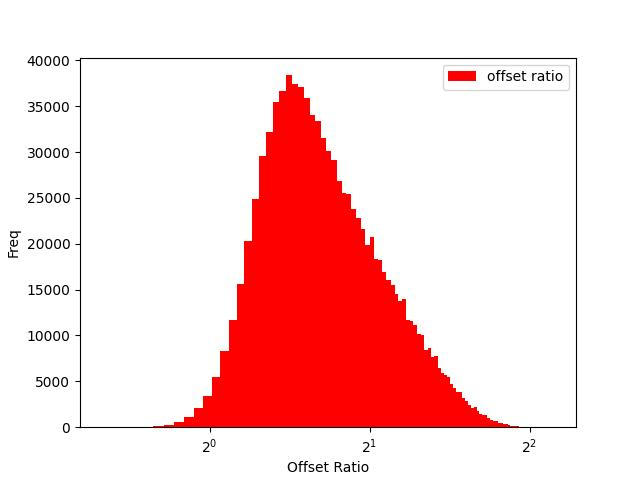
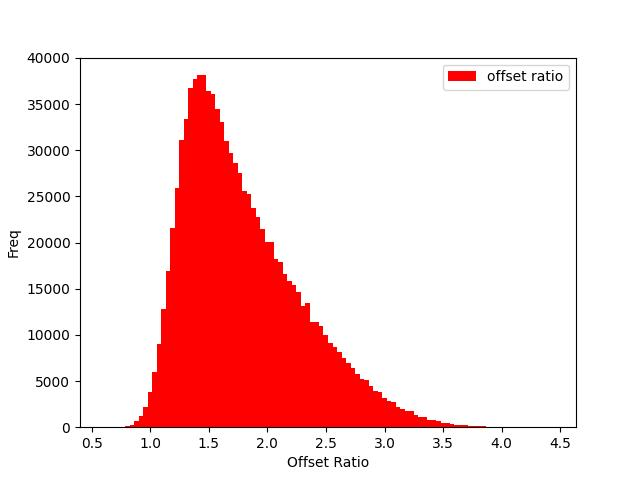
final commit

diff --git a/assignment1/20240454.py b/assignment1/20240454.py
@@ -1,13 +1,10 @@
 import numpy as np
 import time
 import matplotlib.pyplot as plt
-from tqdm import tqdm
 
 np.random.seed(20240454)
 
-
 #==============1-1==============
-
 def prefixAverages1(X, n):
     A = np.zeros(n)
     for i in range(n):
@@ -38,20 +35,20 @@ for i in range(1000):
     prefixAverages2(X, n)
     optimized[i] = time.perf_counter() - start
 
-plt.hist(slow / optimized, color='red', label='slow / optimized')
+plt.hist(slow / optimized, color='red', label='slow / optimized', bins=100)
 plt.legend()
-plt.xlabel("Time")
+plt.xlabel("Time Ratio")
 plt.ylabel("Freq")
+plt.xscale("log", base=2)
+# plt.yscale("log")
 plt.savefig("./ratio_hist.jpg")
 
 plt.clf()
 
-print('ratio hist 1')
-
 minTime = list()
 maxTime = list()
 avgTime = list()
-for i in range(6, 13):
+for i in range(4, 9):
     n = 2 ** i
     slow = np.zeros(1000)
     optimized = np.zeros(1000)
@@ -68,9 +65,8 @@ for i in range(6, 13):
     minTime.append((slow / optimized).min())
     maxTime.append((slow / optimized).max())
     avgTime.append((slow / optimized).mean())
-    print(i)
     
-nSize = [2 ** i for i in range(6, 13)]
+nSize = [2 ** i for i in range(4, 9)]
 
 plt.plot(nSize, minTime, marker='o', label='Min Time')
 plt.plot(nSize, maxTime, marker='s', label='Max Time')
@@ -84,10 +80,7 @@ plt.savefig("./ratio plot.jpg")
 
 plt.clf()
 
-print('ratio plot 1')
-
 #==============1-2==============
-
 def movingAverages1(X, n, k):
     A = np.zeros(n)
     for i in range(n):
@@ -121,15 +114,15 @@ for i in range(1000):
     movingAverages2(X, n, k)
     optimized[i] = time.perf_counter() - start
 
-plt.hist(slow / optimized, color='red', label='slow / optimized')
+plt.hist(slow / optimized, color='red', label='slow / optimized', bins=100)
 plt.legend()
 plt.xlabel("Time Ratio")
 plt.ylabel("Freq")
+plt.xscale("log", base=2)
+# plt.yscale("log")
 plt.savefig("./ratio_hist2.jpg")
 
 plt.clf()
-
-print("ratio hist 2")
 
 minTime = list()
 maxTime = list()
@@ -151,7 +144,6 @@ for i in range(4, 9):
     minTime.append((slow / optimized).min())
     maxTime.append((slow / optimized).max())
     avgTime.append((slow / optimized).mean())
-    print(i)
     
 nSize = [2 ** i for i in range(4, 9)]
 
@@ -167,10 +159,7 @@ plt.savefig("./ratio plot2.jpg")
 
 plt.clf()
 
-print("ratio plot 2")
-
-#==============1-3===============
-
+#==============1-3==============
 def findMissing(A, n):
     return (n * (n - 1) // 2) - sum(A)
 
@@ -194,17 +183,15 @@ for i in range(1000):
     findMissing(A, n)
     seven[i] = time.perf_counter() - start
 
-
-
-plt.hist(seven / six, color='red', label='2**7 / 2**6')
+plt.hist(seven / six, color='red', label='2^7/2^6', bins=100)
 plt.legend()
 plt.xlabel("Time Ratio")
 plt.ylabel("Freq")
+plt.xscale("log", base=2)
+# plt.yscale("log")
 
 plt.savefig("./ratio_hist3.jpg")
 plt.clf()
-
-print("Ratio Hist 3")
 
 three = np.zeros(1000)
 n = 2 ** 3
@@ -214,7 +201,7 @@ for i in range(1000):
     A.pop()
     start = time.perf_counter()
     findMissing(A, n)
-    seven[i] = time.perf_counter() - start
+    three[i] = time.perf_counter() - start
 
 minTime = list()
 maxTime = list()
@@ -230,14 +217,13 @@ for i in range(4, 9):
     minTime.append((find / three).min())
     maxTime.append((find / three).max())
     avgTime.append((find / three).mean())
-    print(i)
     
 nSize = [2 ** i / 2 ** 3 for i in range(4, 9)]
 
 plt.plot(nSize, minTime, marker='o', label='Min Time')
 plt.plot(nSize, maxTime, marker='s', label='Max Time')
 plt.plot(nSize, avgTime, marker='^', label='Average Time')
-plt.xlabel("2^n/2^6")
+plt.xlabel("2^n/2^3")
 plt.ylabel("ratio")
 plt.xscale("log", base=2)
 plt.yscale("log")
@@ -246,10 +232,7 @@ plt.savefig("./ratio plot3.jpg")
 
 plt.clf()
 
-print("Ratio plot 3")
-
-#==============1-4===============
-
+#==============1-4==============
 def countOnes(A, n):
     loc = n - 1
     cnt = 0
@@ -287,15 +270,16 @@ for i in range(1000):
     countOnes(A, n)
     optimized[i] = time.perf_counter() - start
     
-plt.hist(slow / optimized, color='red', label='countOnesButSlow / countOnes')
+plt.hist(slow / optimized, color='red', label='countOnesButSlow / countOnes', bins=100)
 plt.legend()
 plt.xlabel("Time Ratio")
 plt.ylabel("Freq")
+plt.xscale("log", base=2)
+# plt.yscale("log")
+
 plt.savefig("./ratio_hist4.jpg")
 
 plt.clf()
-
-print("Ratio hist 4")
 
 minTime = list()
 maxTime = list()
@@ -321,8 +305,6 @@ for i in range(4, 9):
     maxTime.append((slow / optimized).max())
     avgTime.append((slow / optimized).mean())
     
-    print(i)
-    
 nSize = [2 ** i for i in range(4, 9)]
 
 plt.plot(nSize, minTime, marker='o', label='Min Time')
@@ -337,22 +319,20 @@ plt.savefig("./ratio plot4.jpg")
 
 plt.clf()
 
-print("ratio plot 4")
-
 #==============2-1===============
-
 def gcd1(a, b):
-    print(f"computing gcd1({a}, {b}), ", end='')
-    
     if b == 0:
         return a
+    
+    print(f"computing gcd1({a}, {b}), ", end='')
     
     return gcd1(b, a % b)
 
 def gcd2(a, b):
-    print(f"computing gcd2({a}, {b}), ", end='')
     if a == b:
         return a
+    
+    print(f"computing gcd2({a}, {b}), ", end='')
     
     if a > b:
         return gcd2(a - b, b)
@@ -369,7 +349,6 @@ print(f"and gcd2(225, 13) is {gcd2(225, 13)}")
 print()
 
 #==============2-2===============
-
 def divide(a, b):
     if a < b:
         return (0, a)
@@ -387,7 +366,6 @@ print(f"and divide(1325, 113) is quotient: {q}, remainder: {r}")
 print()
 
 #==============3-1===============
-
 def spiral(n, m):
     A = np.zeros((n, m), dtype=int)
     x, y = 0, 0
@@ -405,41 +383,44 @@ def spiral(n, m):
 print(spiral(10, 4))
 
 #==============3-2===============
-
 n = 10 ** 6
 toHist = np.zeros(n)
-for i in tqdm(range(n)):
-    # A = np.zeros((100, 100))
-    howMuch = np.random.randint(5, 11)
-    loc = np.random.choice(range(10000), howMuch, replace=False)
-    # A.flat[loc] = 1
+for i in range(n):
+    A = np.zeros((10, 10))
+    howMuch = np.random.randint(1, 6)
+    loc = np.random.choice(range(100), howMuch, replace=False)
+    A.flat[loc] = 1
     nonzeroOffset = np.sum(loc)
     locOffset = ((howMuch * 2) * (howMuch * 2 - 1)) // 2
     toHist[i] = nonzeroOffset / locOffset
 
-plt.hist(toHist, color='red', label='offset ratio')
+plt.hist(toHist, color='red', label='offset ratio', bins=100)
 plt.legend()
-plt.xlabel("Time Ratio")
+plt.xlabel("Offset Ratio")
 plt.ylabel("Freq")
+plt.xscale("log", base=2)
 
 plt.savefig("./sparse hist1.jpg")
+
 plt.clf()
 
 n = 10 ** 6
 toHist = np.zeros(n)
-for i in tqdm(range(n)):
-    # A = np.zeros((100, 100))
+for i in range(n):
+    A = np.zeros((10, 10))
     howMuch = np.random.randint(10, 21)
-    loc = np.random.choice(range(10000), howMuch, replace=False)
-    # A.flat[loc] = 1
+    loc = np.random.choice(range(100), howMuch, replace=False)
+    A.flat[loc] = 1
     nonzeroOffset = np.sum(loc)
     locOffset = ((howMuch * 2) * (howMuch * 2 - 1)) // 2
     toHist[i] = nonzeroOffset / locOffset
 
-plt.hist(toHist, color='red', label='offset ratio')
+plt.hist(toHist, color='red', label='offset ratio', bins=100)
 plt.legend()
 plt.xlabel("Offset Ratio")
 plt.ylabel("Freq")
+# plt.xscale("log", base=2)
 
 plt.savefig("./sparse hist2.jpg")
+
 plt.clf()
